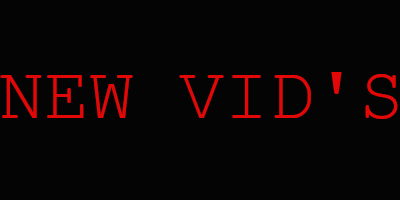
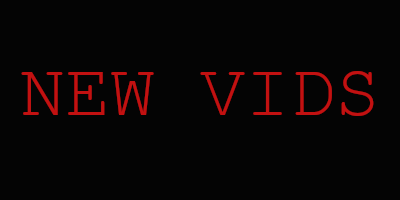
Add files via upload
updated bonus to be able to use while embedding a friends video fixed a title and spelling issues.

Changed region(s): [[0.45, 0.33, 1.0, 0.6], [0.0, 0.36, 0.39, 0.6]]

diff --git a/Bonus.html b/Bonus.html
@@ -17,8 +17,10 @@
 
   <body>
 
+    <h1>SPACE WEED</h1>
     
-
+    <iframe width="560" height="315" src="https://www.youtube.com/embed/RKFKW1b45pM" title="YouTube video player" frameborder="0" 
+    allow="accelerometer; autoplay; clipboard-write; encrypted-media; gyroscope; picture-in-picture" allowfullscreen></iframe>
 
 
 

diff --git a/new.html b/new.html
@@ -20,7 +20,7 @@
 
   <div>
 
-    <h2>A cartoon for a mature audiences</h2>
+    <h2>A CARTOON FOR A MATURE AUDIENCE...</h2>
 
 
     <iframe width="560" height="315" src="https://www.youtube.com/embed/6erI7MWFwfU" title="YouTube video player"

diff --git a/index.html b/index.html
@@ -20,7 +20,7 @@
 	
    <div>
    
-      <a href="" target="_self">
+      <a href="Bonus.html" target="_self">
           <img src="bonus.png" alt="Bonus_content"
           width="auto" height="auto">
       </a>
